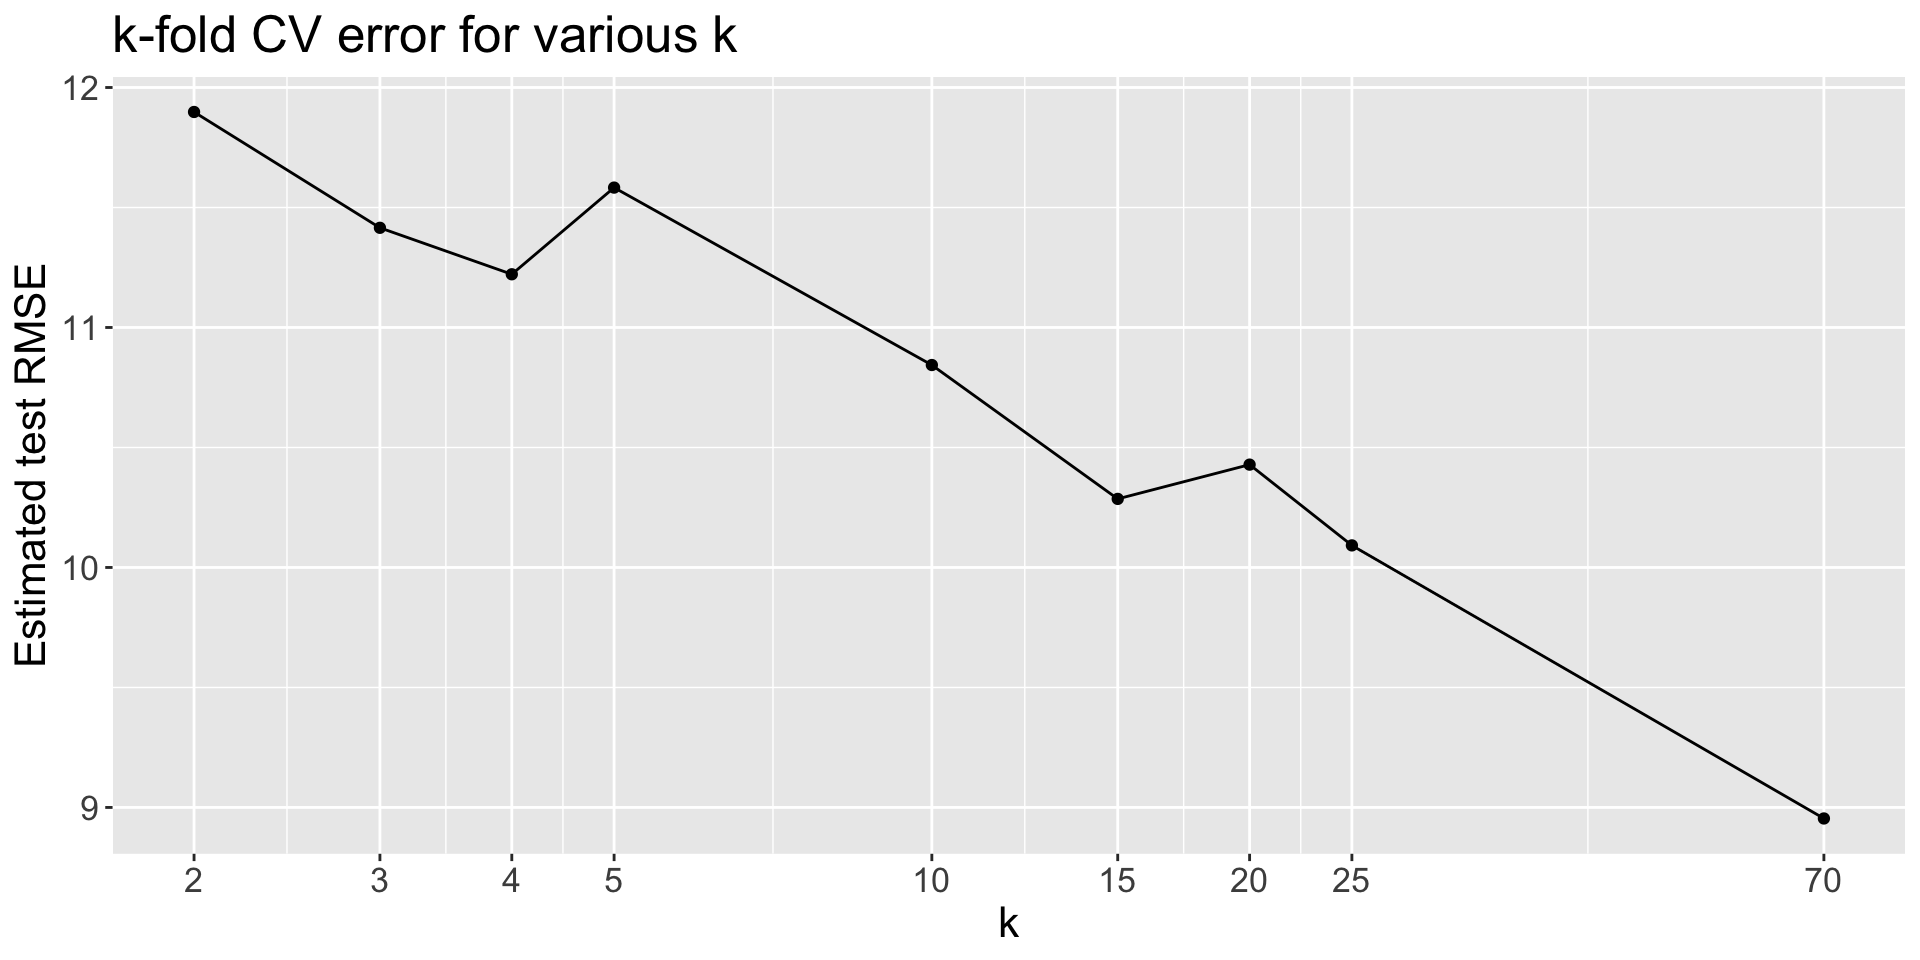
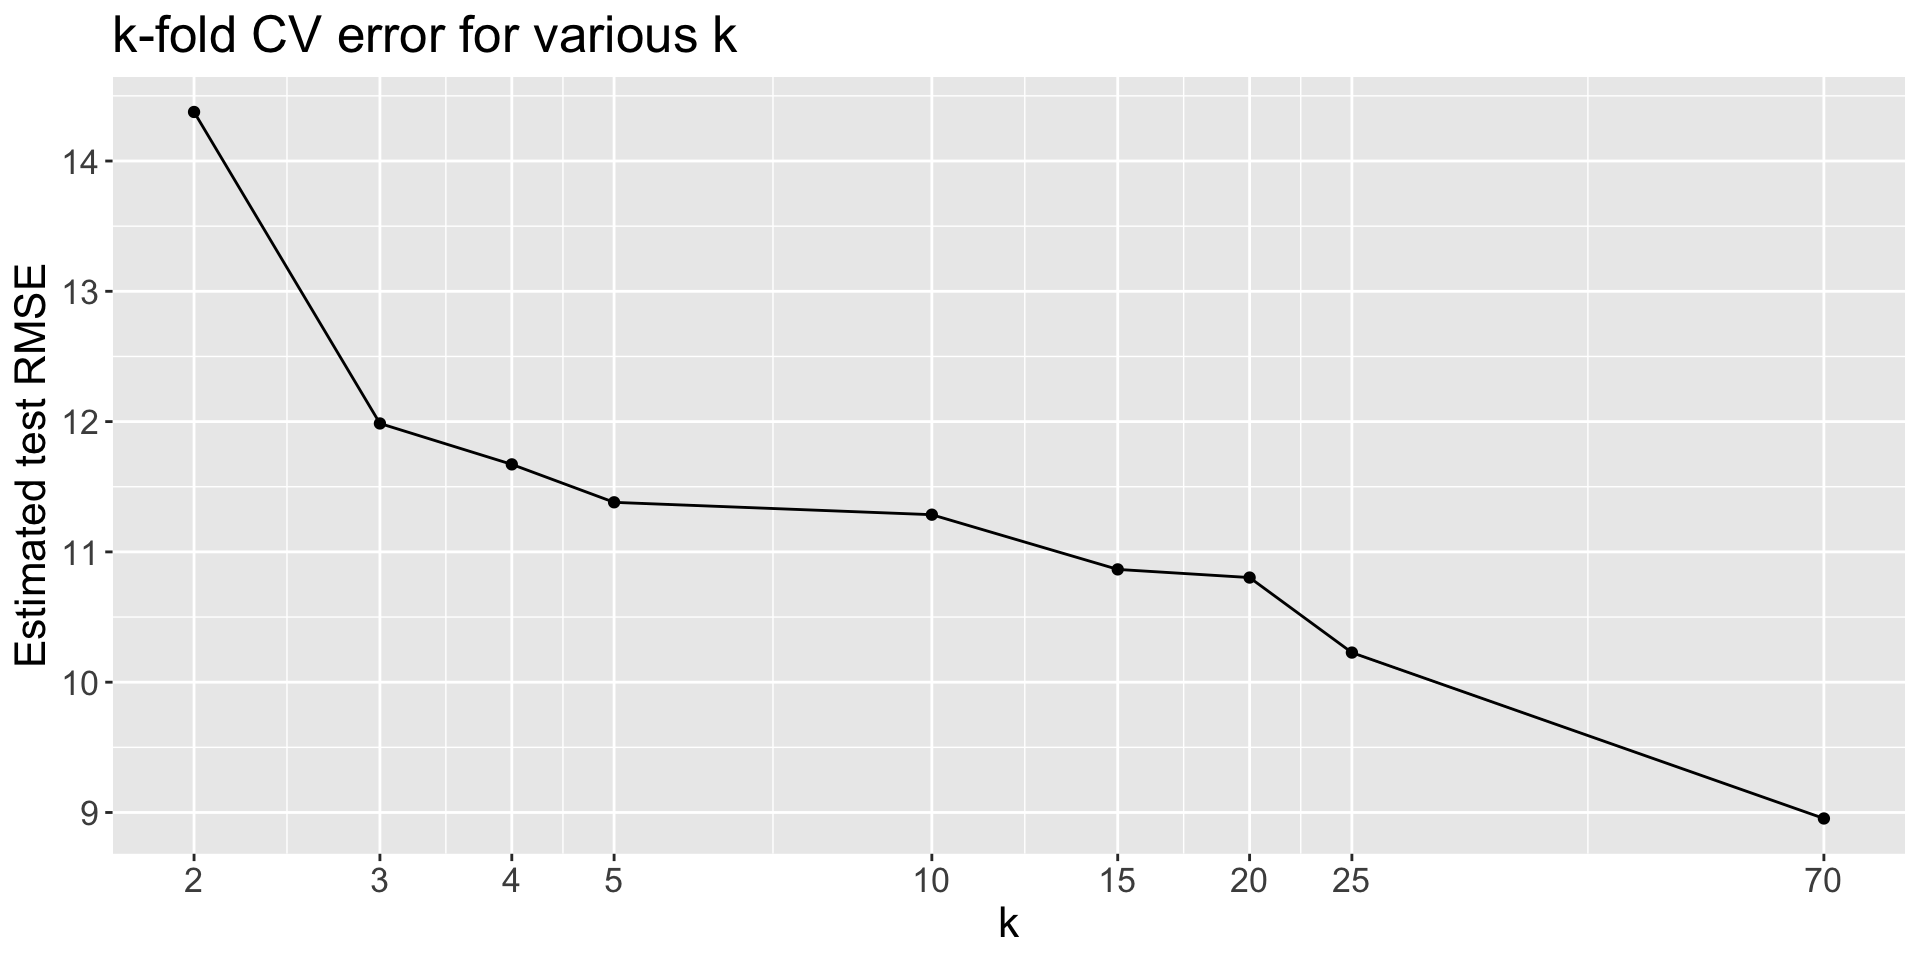
add comprehensions questions to lab 4

diff --git a/docs/labs/lab-04-cross-validation.html b/docs/labs/lab-04-cross-validation.html
@@ -258,9 +258,9 @@ code span.wa { color: #60a0b0; font-weight: bold; font-style: italic; } /* Warni
 <h3 class="anchored" data-anchor-id="obtain-the-indices-for-each-fold">Obtain the indices for each fold</h3>
 <p>We will perform 5-fold cross-validation. Using a method of your choice, randomly split the indices of the observations into 5 folds of (roughly) equal size. Because you will be randomly splitting, it is important for you to set a seed for reproducibility.</p>
 <div class="cell">
-<div class="sourceCode cell-code" id="cb5"><pre class="sourceCode r code-with-copy"><code class="sourceCode r"><span id="cb5-1"><a href="#cb5-1" aria-hidden="true" tabindex="-1"></a><span class="fu">set.seed</span>(<span class="dv">1</span>)</span>
+<div class="sourceCode cell-code" id="cb5"><pre class="sourceCode r code-with-copy"><code class="sourceCode r"><span id="cb5-1"><a href="#cb5-1" aria-hidden="true" tabindex="-1"></a><span class="fu">set.seed</span>(<span class="dv">3</span>)</span>
 <span id="cb5-2"><a href="#cb5-2" aria-hidden="true" tabindex="-1"></a>n <span class="ot">&lt;-</span> <span class="fu">nrow</span>(ski_resorts)</span>
-<span id="cb5-3"><a href="#cb5-3" aria-hidden="true" tabindex="-1"></a>n_folds <span class="ot">&lt;-</span> <span class="dv">5</span></span>
+<span id="cb5-3"><a href="#cb5-3" aria-hidden="true" tabindex="-1"></a>n_folds <span class="ot">&lt;-</span> <span class="dv">10</span></span>
 <span id="cb5-4"><a href="#cb5-4" aria-hidden="true" tabindex="-1"></a>fold_ids <span class="ot">&lt;-</span> <span class="fu">split</span>(<span class="fu">sample</span>(<span class="dv">1</span><span class="sc">:</span>n), <span class="fu">ceiling</span>(<span class="fu">seq_along</span>(<span class="dv">1</span><span class="sc">:</span>n)<span class="sc">/</span>(n<span class="sc">/</span>n_folds)))</span></code><button title="Copy to Clipboard" class="code-copy-button"><i class="bi"></i></button></pre></div>
 </div>
 </section>
@@ -282,7 +282,7 @@ code span.wa { color: #60a0b0; font-weight: bold; font-style: italic; } /* Warni
 <span id="cb7-8"><a href="#cb7-8" aria-hidden="true" tabindex="-1"></a>}</span>
 <span id="cb7-9"><a href="#cb7-9" aria-hidden="true" tabindex="-1"></a>(lm_rmse <span class="ot">&lt;-</span> <span class="fu">mean</span>(lm_errs))</span></code><button title="Copy to Clipboard" class="code-copy-button"><i class="bi"></i></button></pre></div>
 <div class="cell-output cell-output-stdout">
-<pre><code>[1] 15.78683</code></pre>
+<pre><code>[1] 16.15013</code></pre>
 </div>
 </div>
 <div style="color: maroon">
@@ -310,7 +310,7 @@ code span.wa { color: #60a0b0; font-weight: bold; font-style: italic; } /* Warni
 <span id="cb9-15"><a href="#cb9-15" aria-hidden="true" tabindex="-1"></a>}</span>
 <span id="cb9-16"><a href="#cb9-16" aria-hidden="true" tabindex="-1"></a>(knn_rmse <span class="ot">&lt;-</span> <span class="fu">mean</span>(knn_errs))</span></code><button title="Copy to Clipboard" class="code-copy-button"><i class="bi"></i></button></pre></div>
 <div class="cell-output cell-output-stdout">
-<pre><code>[1] 19.96229</code></pre>
+<pre><code>[1] 19.5177</code></pre>
 </div>
 </div>
 <div style="color: maroon">
@@ -361,7 +361,7 @@ code span.wa { color: #60a0b0; font-weight: bold; font-style: italic; } /* Warni
 <span id="cb12-21"><a href="#cb12-21" aria-hidden="true" tabindex="-1"></a>}</span>
 <span id="cb12-22"><a href="#cb12-22" aria-hidden="true" tabindex="-1"></a>(knn_scaled_rmse <span class="ot">&lt;-</span> <span class="fu">mean</span>(knn_errs_scaled))</span></code><button title="Copy to Clipboard" class="code-copy-button"><i class="bi"></i></button></pre></div>
 <div class="cell-output cell-output-stdout">
-<pre><code>[1] 17.55136</code></pre>
+<pre><code>[1] 17.08212</code></pre>
 </div>
 </div>
 <div style="color: maroon">
@@ -393,7 +393,7 @@ code span.wa { color: #60a0b0; font-weight: bold; font-style: italic; } /* Warni
 <span id="cb14-19"><a href="#cb14-19" aria-hidden="true" tabindex="-1"></a>}</span>
 <span id="cb14-20"><a href="#cb14-20" aria-hidden="true" tabindex="-1"></a>(lm_scaled_rmse <span class="ot">&lt;-</span> <span class="fu">mean</span>(lm_errs_scaled))</span></code><button title="Copy to Clipboard" class="code-copy-button"><i class="bi"></i></button></pre></div>
 <div class="cell-output cell-output-stdout">
-<pre><code>[1] 15.78683</code></pre>
+<pre><code>[1] 16.15013</code></pre>
 </div>
 </div>
 <div style="color: maroon">
@@ -403,9 +403,16 @@ code span.wa { color: #60a0b0; font-weight: bold; font-style: italic; } /* Warni
 </section>
 <section id="comprehension-questions" class="level2">
 <h2 class="anchored" data-anchor-id="comprehension-questions">Comprehension questions</h2>
+<ol type="1">
+<li>Based on your results, if you had to recommend a model for the <code>price</code> of lift tickets, which model would you choose and why?</li>
+<li>If you ran this analysis again with a different choice of seed in <code>set.seed()</code>, what would you expect to change and why? What would you expect to stay the same and why?</li>
+<li>If you ran this analysis again with a larger number of folds, how would you expect the estimated test RMSEs to change? Why?</li>
+<li>I mentioned that the fair way to compare models is to use the same folds/partitions for all models. Briefly explain why that is.</li>
+</ol>
 </section>
 <section id="submission" class="level2">
 <h2 class="anchored" data-anchor-id="submission">Submission</h2>
+<p>When you’re finished, knit + commit + push to GitHub one last time. Then submit your knitted pdf to Canvas!</p>
 
 
 </section>

diff --git a/docs/slides/slides-05-resampling.html b/docs/slides/slides-05-resampling.html
@@ -626,11 +626,11 @@
 <span id="cb1-4"><a href="#cb1-4"></a>samp1 <span class="ot">&lt;-</span> <span class="fu">sample</span>(<span class="at">x =</span> dat, <span class="at">size =</span> n, <span class="at">replace =</span> T)</span>
 <span id="cb1-5"><a href="#cb1-5"></a>samp1</span></code><button title="Copy to Clipboard" class="code-copy-button"><i class="bi"></i></button></pre></div>
 <div class="cell-output cell-output-stdout">
-<pre><code>[1] 130 200 130 200</code></pre>
+<pre><code>[1] 200 200 200 110</code></pre>
 </div>
 </div>
 <ul>
-<li class="fragment">Obtain our first estimate for <span class="math inline">\(\mu\)</span>, the population mean daily caffeine consumption in adults: <span class="math inline">\(\hat{\mu}_{1} = 165\)</span></li>
+<li class="fragment">Obtain our first estimate for <span class="math inline">\(\mu\)</span>, the population mean daily caffeine consumption in adults: <span class="math inline">\(\hat{\mu}_{1} = 177.5\)</span></li>
 </ul>
 </section>
 <section id="example-cont." class="slide level2">
@@ -642,11 +642,11 @@
 <div class="sourceCode cell-code" id="cb3"><pre class="sourceCode numberSource r number-lines code-with-copy"><code class="sourceCode r"><span id="cb3-1"><a href="#cb3-1"></a>samp2 <span class="ot">&lt;-</span> <span class="fu">sample</span>(<span class="at">x =</span> dat, <span class="at">size =</span> n, <span class="at">replace =</span> T)</span>
 <span id="cb3-2"><a href="#cb3-2"></a>samp2</span></code><button title="Copy to Clipboard" class="code-copy-button"><i class="bi"></i></button></pre></div>
 <div class="cell-output cell-output-stdout">
-<pre><code>[1] 130 130 150 110</code></pre>
+<pre><code>[1] 150 110 150 150</code></pre>
 </div>
 </div>
 <ul>
-<li class="fragment"><p><span class="math inline">\(\hat{\mu}_{2} = 130\)</span></p></li>
+<li class="fragment"><p><span class="math inline">\(\hat{\mu}_{2} = 140\)</span></p></li>
 <li class="fragment"><p>Repeat this process thousands of times!</p></li>
 <li class="fragment"><p>…</p></li>
 </ul>
@@ -668,7 +668,7 @@
 </div>
 </div>
 <ul>
-<li class="fragment"><p>Mean over all estimates is <span class="math inline">\(\hat{\mu} = 147.2125\)</span></p></li>
+<li class="fragment"><p>Mean over all estimates is <span class="math inline">\(\hat{\mu} = 147.365\)</span></p></li>
 <li class="fragment"><p>Approximate 95% confidence interval for the mean are the 5% and 95% quantiles of the 1000 mean estimates: (120, 182.5)</p>
 <ul>
 <li class="fragment">Called a <em>bootstrap percentile</em> confidence interval</li>
